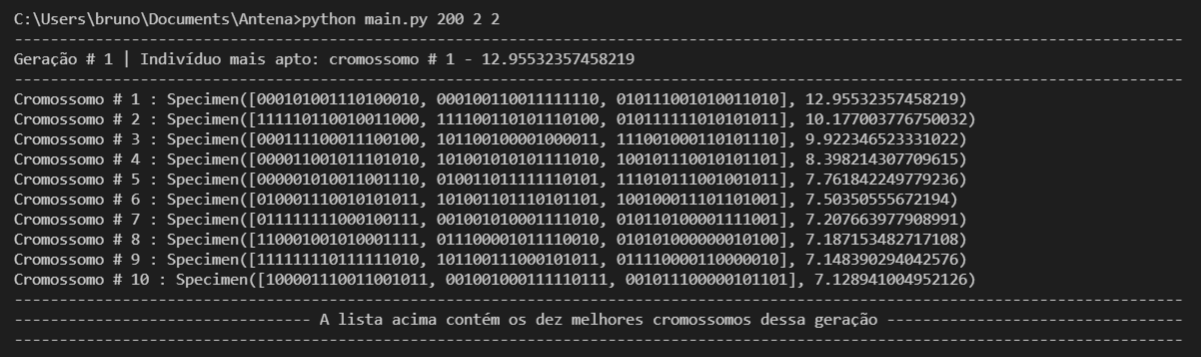
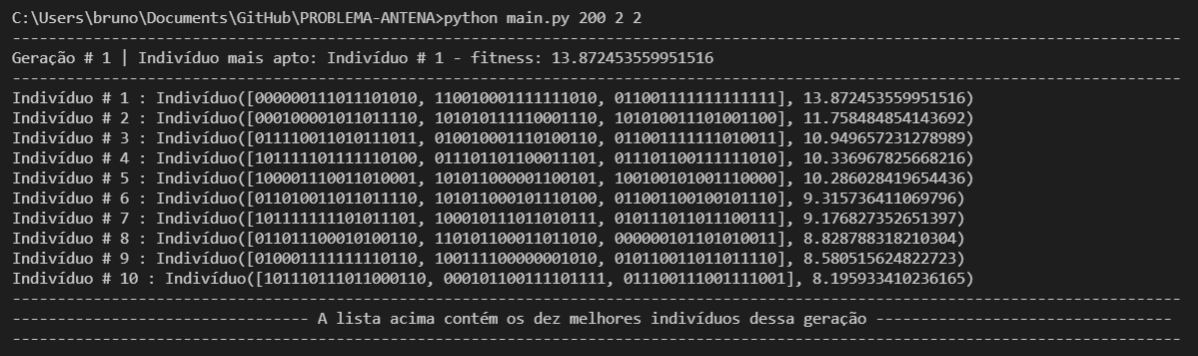
Mudanças nos textos
- Correção em alguns nomes utilizados
- Alteração nas imagens

diff --git a/genetic.py b/genetic.py
@@ -4,7 +4,7 @@ import random
 from structures.genome import Genome
 from structures.specimen import Specimen
 
-# Seleciona um espécime da população baseado na sua variável "chance"
+# Seleciona um indivíduo da população baseado na sua variável "chance"
 def select_random_specimen(population):
   pool_size = 0
 
@@ -13,7 +13,7 @@ def select_random_specimen(population):
 
   random_number = random.uniform(0, pool_size)
 
-  # Faz uma acumulação da variável "chance" até achar o espécime sorteado
+  # Faz uma acumulação da variável "chance" até achar o indivíduo sorteado
   accumulated_probability = 0
   for specimen in population:
     accumulated_probability += specimen.get_chance()
@@ -22,7 +22,7 @@ def select_random_specimen(population):
 
   return None
 
-# Gera uma nova população com os espécimes selecionados
+# Gera uma nova população com os indivíduos selecionados
 def select_population(population, many_specimens):
   new_population = []
 
@@ -35,31 +35,31 @@ def select_population(population, many_specimens):
 def generate_population(number):
   population = []
 
-  # Gerando os espécimes com os três genomas
+  # Gerando os indivíduos com os três genomas
   for i in range(number):
     population.append(Specimen([Genome(), Genome(), Genome()]))
 
   return population
 
-# Aplica a função "get_fitness" para todos os espécimes da população
+# Aplica a função "get_fitness" para todos os indivíduos da população
 def generate_fitness_population(population):
-  # Pegando o fitness de cada espécime
+  # Pegando o fitness de cada indivíduo
   for specimen in population:
     specimen.set_fitness(get_fitness(specimen))
 
-# Gera as chances de um espécime ser selecionado (com base na população toda)
+# Gera as chances de um indivíduo ser selecionado (com base na população toda)
 def generate_choose_chance(population, max_population):
   for index, specimen in enumerate(population):
     # Chance = distância do atual para o pior / pela posição atual + 1
-    # A chance de ser escolhido vai caindo proprocionalmente ao aumento do index (distância do melhor espécime)
+    # A chance de ser escolhido vai caindo proprocionalmente ao aumento do index (distância do melhor indivíduo)
     specimen.set_chance((specimen.get_fitness() - population[max_population - 1].get_fitness()) / (index + 1))
 
-# Gera mutação em alguns espécimes (com base na porcentagem de mutação)
+# Gera mutação em alguns indivíduos (com base na porcentagem de mutação)
 def generate_mutation(population, percentage):
   for specimen in population:
     specimen.generate_mutation(percentage)
 
-# Faz o cruzamento de duas espécimes
+# Faz o cruzamento de duas indivíduos
 def crossover_specimens(specimen_one, specimen_two):
   # Fazendo o corte do genes em uma posição aleatória
   cut_position = random.randint(0, 17)
@@ -103,22 +103,22 @@ def get_fitness(specimen):
 
   return float(content.decode('utf-8').partition('\n')[0])
 
-# Função responsável por mostrar alguns espécimes da população atual
+# Função responsável por mostrar alguns indivíduos da população atual
 def print_population(population, gen):
   print('-' * 130)
-  print('Geração #', gen, '|', 'Indivíduo mais apto: cromossomo # 1 -', population[0].get_fitness())
+  print('Geração #', gen, '|', 'Indivíduo mais apto: Indivíduo # 1 - fitness:', population[0].get_fitness())
   print('-' * 130)
 
   for i in range(10 if len(population) >= 10 else len(population)):
-    print('Cromossomo', '#', i + 1, ':', population[i])
+    print('Indivíduo', '#', i + 1, ':', population[i])
 
   if len(population) >= 10:
     print('-' * 130)
-    print('-' * 33 + ' A lista acima contém os dez melhores cromossomos dessa geração ' + '-' * 33)
+    print('-' * 33 + ' A lista acima contém os dez melhores indivíduos dessa geração ' + '-' * 33)
     print('-' * 130)
   print()
 
-# Função responsável por mostrar o melhor espécime
+# Função responsável por mostrar o melhor indivíduo
 def print_best_specimen(population):
   genomes = population[0].get_genomes()
   angles = ''

diff --git a/structures/specimen.py b/structures/specimen.py
@@ -1,12 +1,12 @@
 class Specimen:
   def __init__(self, genomes):
-    """ Inicializa o espécime com os genomas """
+    """ Inicializa o indivíduo com os genomas """
     self.genomes = genomes
     self.fitness = 0
     self.chance = 0
 
   def set_fitness(self, fitness):
-    """ Atribui o fitness do espécime """
+    """ Atribui o fitness do indivíduo """
     self.fitness = fitness
 
   def set_chance(self, chance):
@@ -14,11 +14,11 @@ class Specimen:
     self.chance = chance
 
   def get_fitness(self):
-    """ Retorna o fitness do espécime """
+    """ Retorna o fitness do indivíduo """
     return self.fitness
 
   def get_chance(self):
-    """ Retorna a chance do espécime ser escolhido """
+    """ Retorna a chance do indivíduo ser escolhido """
     return self.chance
 
   def get_genome(self, number):
@@ -35,4 +35,4 @@ class Specimen:
       self.genomes[i].generate_mutation(percentage)
 
   def __repr__(self):
-    return 'Specimen(' + ', '.join(map(str, [self.genomes, self.fitness])) + ')'
+    return 'Indivíduo(' + ', '.join(map(str, [self.genomes, self.fitness])) + ')'

diff --git a/readme.md b/readme.md
@@ -28,6 +28,8 @@ $ python main.py (população máxima) (quantidade de gerações) (porcentagem d
   <img alt="" title="" src="preview/console_1.png">
 </h1>
 
+<p align="center">Formato da saída: Indivíduo([lista de genes], fitness)</p>
+
 <h1 align="center">
   <img alt="" title="" src="preview/console_2.png">
 </h1>
